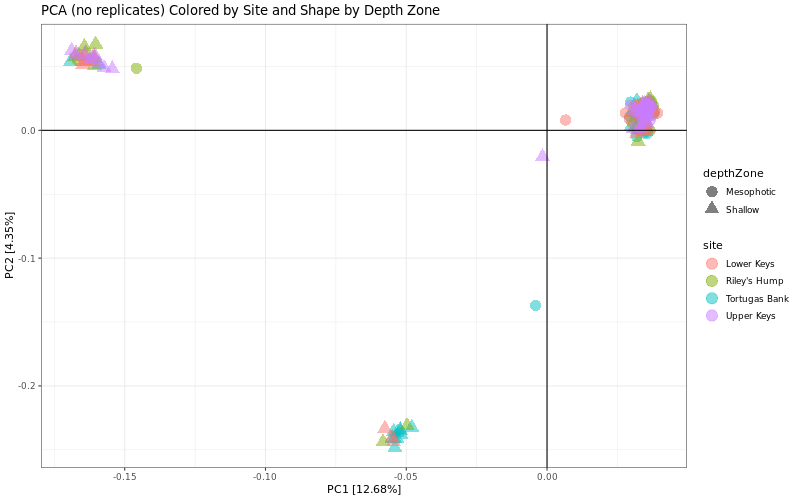
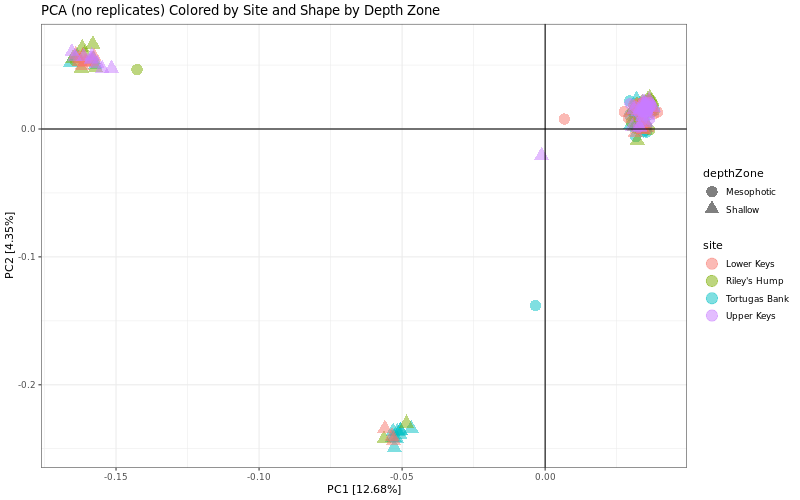
update PCA plots and CODEBOOK

diff --git a/workflow/CODEBOOK.md b/workflow/CODEBOOK.md
@@ -127,7 +127,9 @@ as.data.frame(pca.out$eigenvect) %>%
 
 Remove replicates and rerun PCA
 ```bash
-keep_noreps <- keep[!keep %in% replicates]
+# Remove replicates, keep one with lowest missingness
+replicates.remove <- c("SFK066.1", "SFK066.3", "SFK162.1", "SFK162.3", "SFK205.1", "SFK205.3")
+keep_noreps <- keep[!keep %in% replicates.remove]
 
 pca.out.noreps = SNPRelate::snpgdsPCA(autosome.only=F, gdsin, num.thread = 1, remove.monosnp = T, maf = 0.05, snp.id=snpset.id, sample.id=keep_noreps)
 ```
